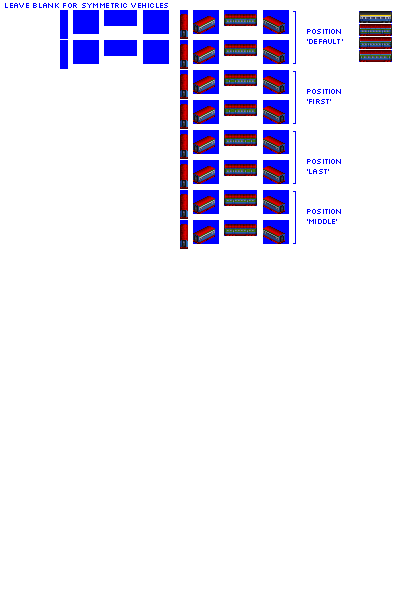
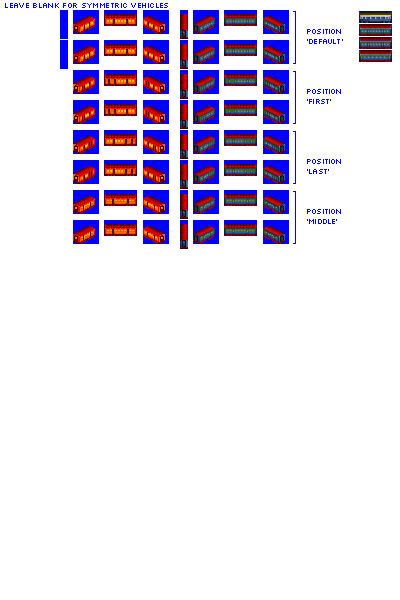
Change: sprites complete for luxury gen 3 pax car

diff --git a/src/vehicles/luxury_passenger_cars.py b/src/vehicles/luxury_passenger_cars.py
@@ -38,7 +38,8 @@ def main():
     consist = PassengerLuxuryCarConsist(roster='pony',
                                         base_numeric_id=2270,
                                         gen=3,
-                                        subtype='A')
+                                        subtype='A',
+                                        sprites_complete=True)
 
     consist.add_unit(type=PaxMailCar,
                      capacity=40,
